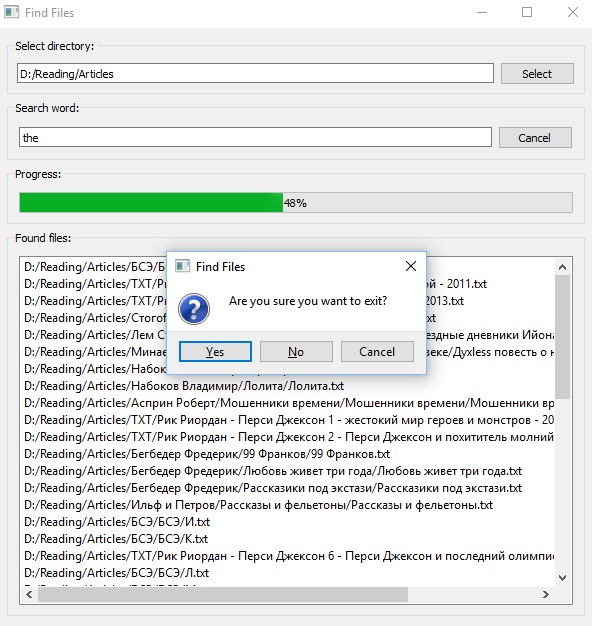
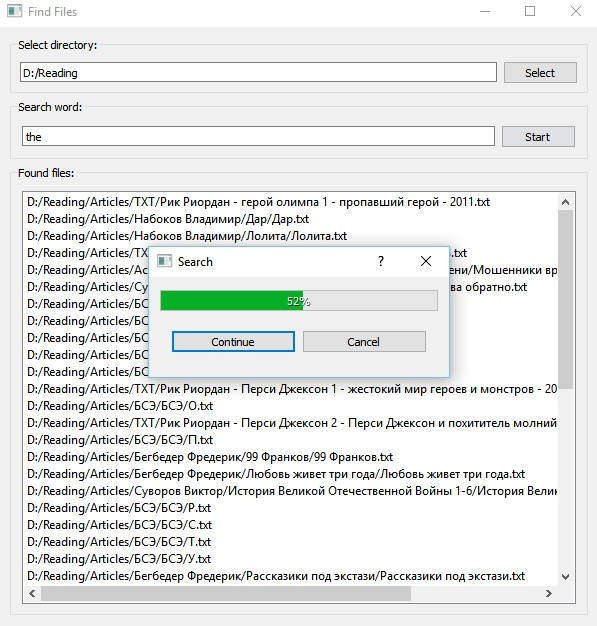
Added Find Files screenshots

diff --git a/FindFiles/ProgressWidget.cpp b/FindFiles/ProgressWidget.cpp
@@ -7,7 +7,7 @@ ProgressWidget::ProgressWidget(qint64 directorySizeInBytes, QDialog *parent)
     , mDirectorySizeInBytes(directorySizeInBytes)
     , mBytesProcessed(0)
 {
-    setWindowTitle("Search Progress");
+    setWindowTitle("Search");
     setModal(true);
 
     mProgressBar = new QProgressBar();
@@ -95,7 +95,7 @@ void ProgressWidget::closeEvent(QCloseEvent* event)
     {
         emit paused();
 
-        QMessageBox::StandardButton message = QMessageBox::question(this, "Search Progress", tr("Are you sure you want to exit?"), QMessageBox::Cancel | QMessageBox::No | QMessageBox::Yes, QMessageBox::Yes);
+        QMessageBox::StandardButton message = QMessageBox::question(this, "Search", tr("Are you sure you want to cancel?"), QMessageBox::Cancel | QMessageBox::No | QMessageBox::Yes, QMessageBox::Yes);
         if (message == QMessageBox::Yes)
         {
             event->accept();
